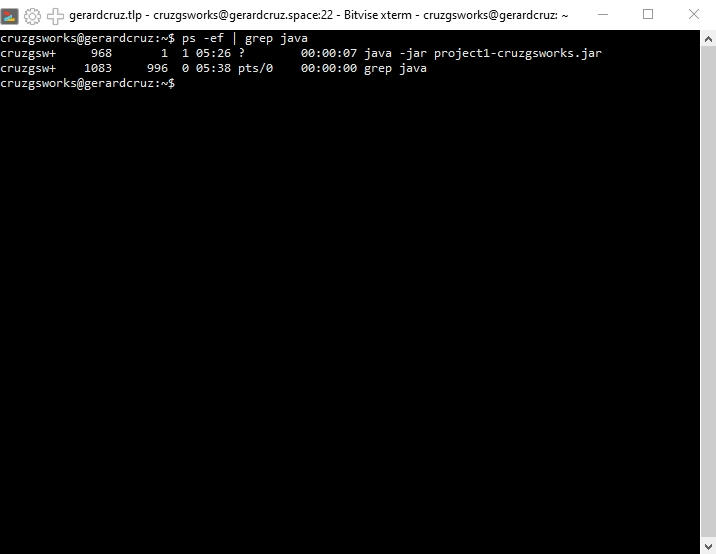
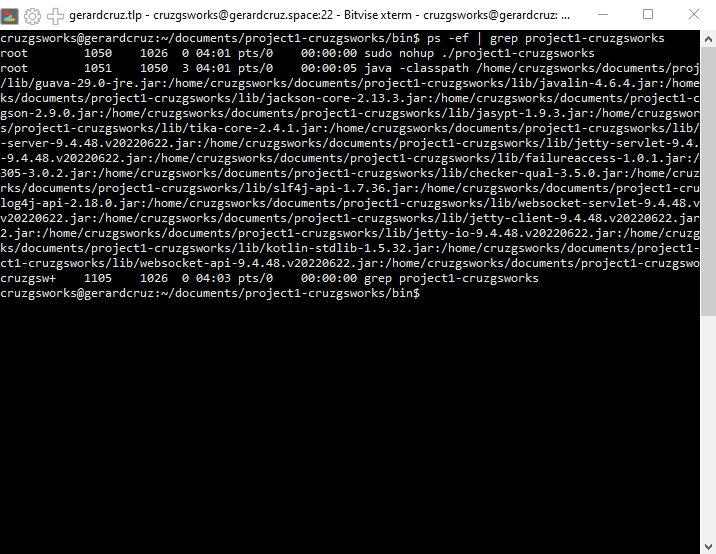
Minor changes

Changed region(s): [[0.0, 0.0614, 0.9832, 0.5523], [0.9525, 0.5523, 1.0, 0.9819]]

diff --git a/src/main/java/com/revature/ers/routes/Routes.java b/src/main/java/com/revature/ers/routes/Routes.java
@@ -69,8 +69,8 @@ public class Routes {
 			});
 			config.server(() -> {
 
-				int httpPort = 8080;
-				int httpsPort = 8443;
+				int httpPort = 80;
+				int httpsPort = 443;
 
 				Server server = new Server();
 

diff --git a/README.md b/README.md
@@ -2,11 +2,11 @@
 
 ## Project Details
 
-- Deployed in a VM in GCP.
-- PostgresDB instance in GCP as well.
-- Can be accessed through (SSL Enabled) [https://gerardcruz.space:8443/](https://gerardcruz.space:8443/)
-    - Manager (User/Pass) = revature / revature2022
-    - Employee (User/Pass) = gerardcruz / gerardcruz2022
+* Deployed in a VM in GCP.
+* PostgresDB instance in GCP as well.
+* Can be accessed through (SSL Enabled) [https://gerardcruz.space/](https://gerardcruz.space:8443/)
+    * Manager (User/Pass) = revature / revature2022
+    * Employee (User/Pass) = gerardcruz / gerardcruz2022
 
 ## Current ERD (Postgres)
 
@@ -21,7 +21,7 @@
 
 &nbsp;&nbsp;&nbsp;&nbsp;&nbsp;&nbsp;&nbsp;&nbsp;&nbsp;<img src="./imgs/p1img/GCP_SQL_DB_INSTANCE.png" alt="" width="768"/>
 
-- *Running Jar in background*
+- *Running Jar in background - Using nohup command with elevated permissions to bind app to port 80 and 443*
 
 &nbsp;&nbsp;&nbsp;&nbsp;&nbsp;&nbsp;&nbsp;&nbsp;&nbsp;<img src="./imgs/p1img/SSH_JAVA_APP_RUNNING_IN_BACKGROUND.png" alt=""/>
 
